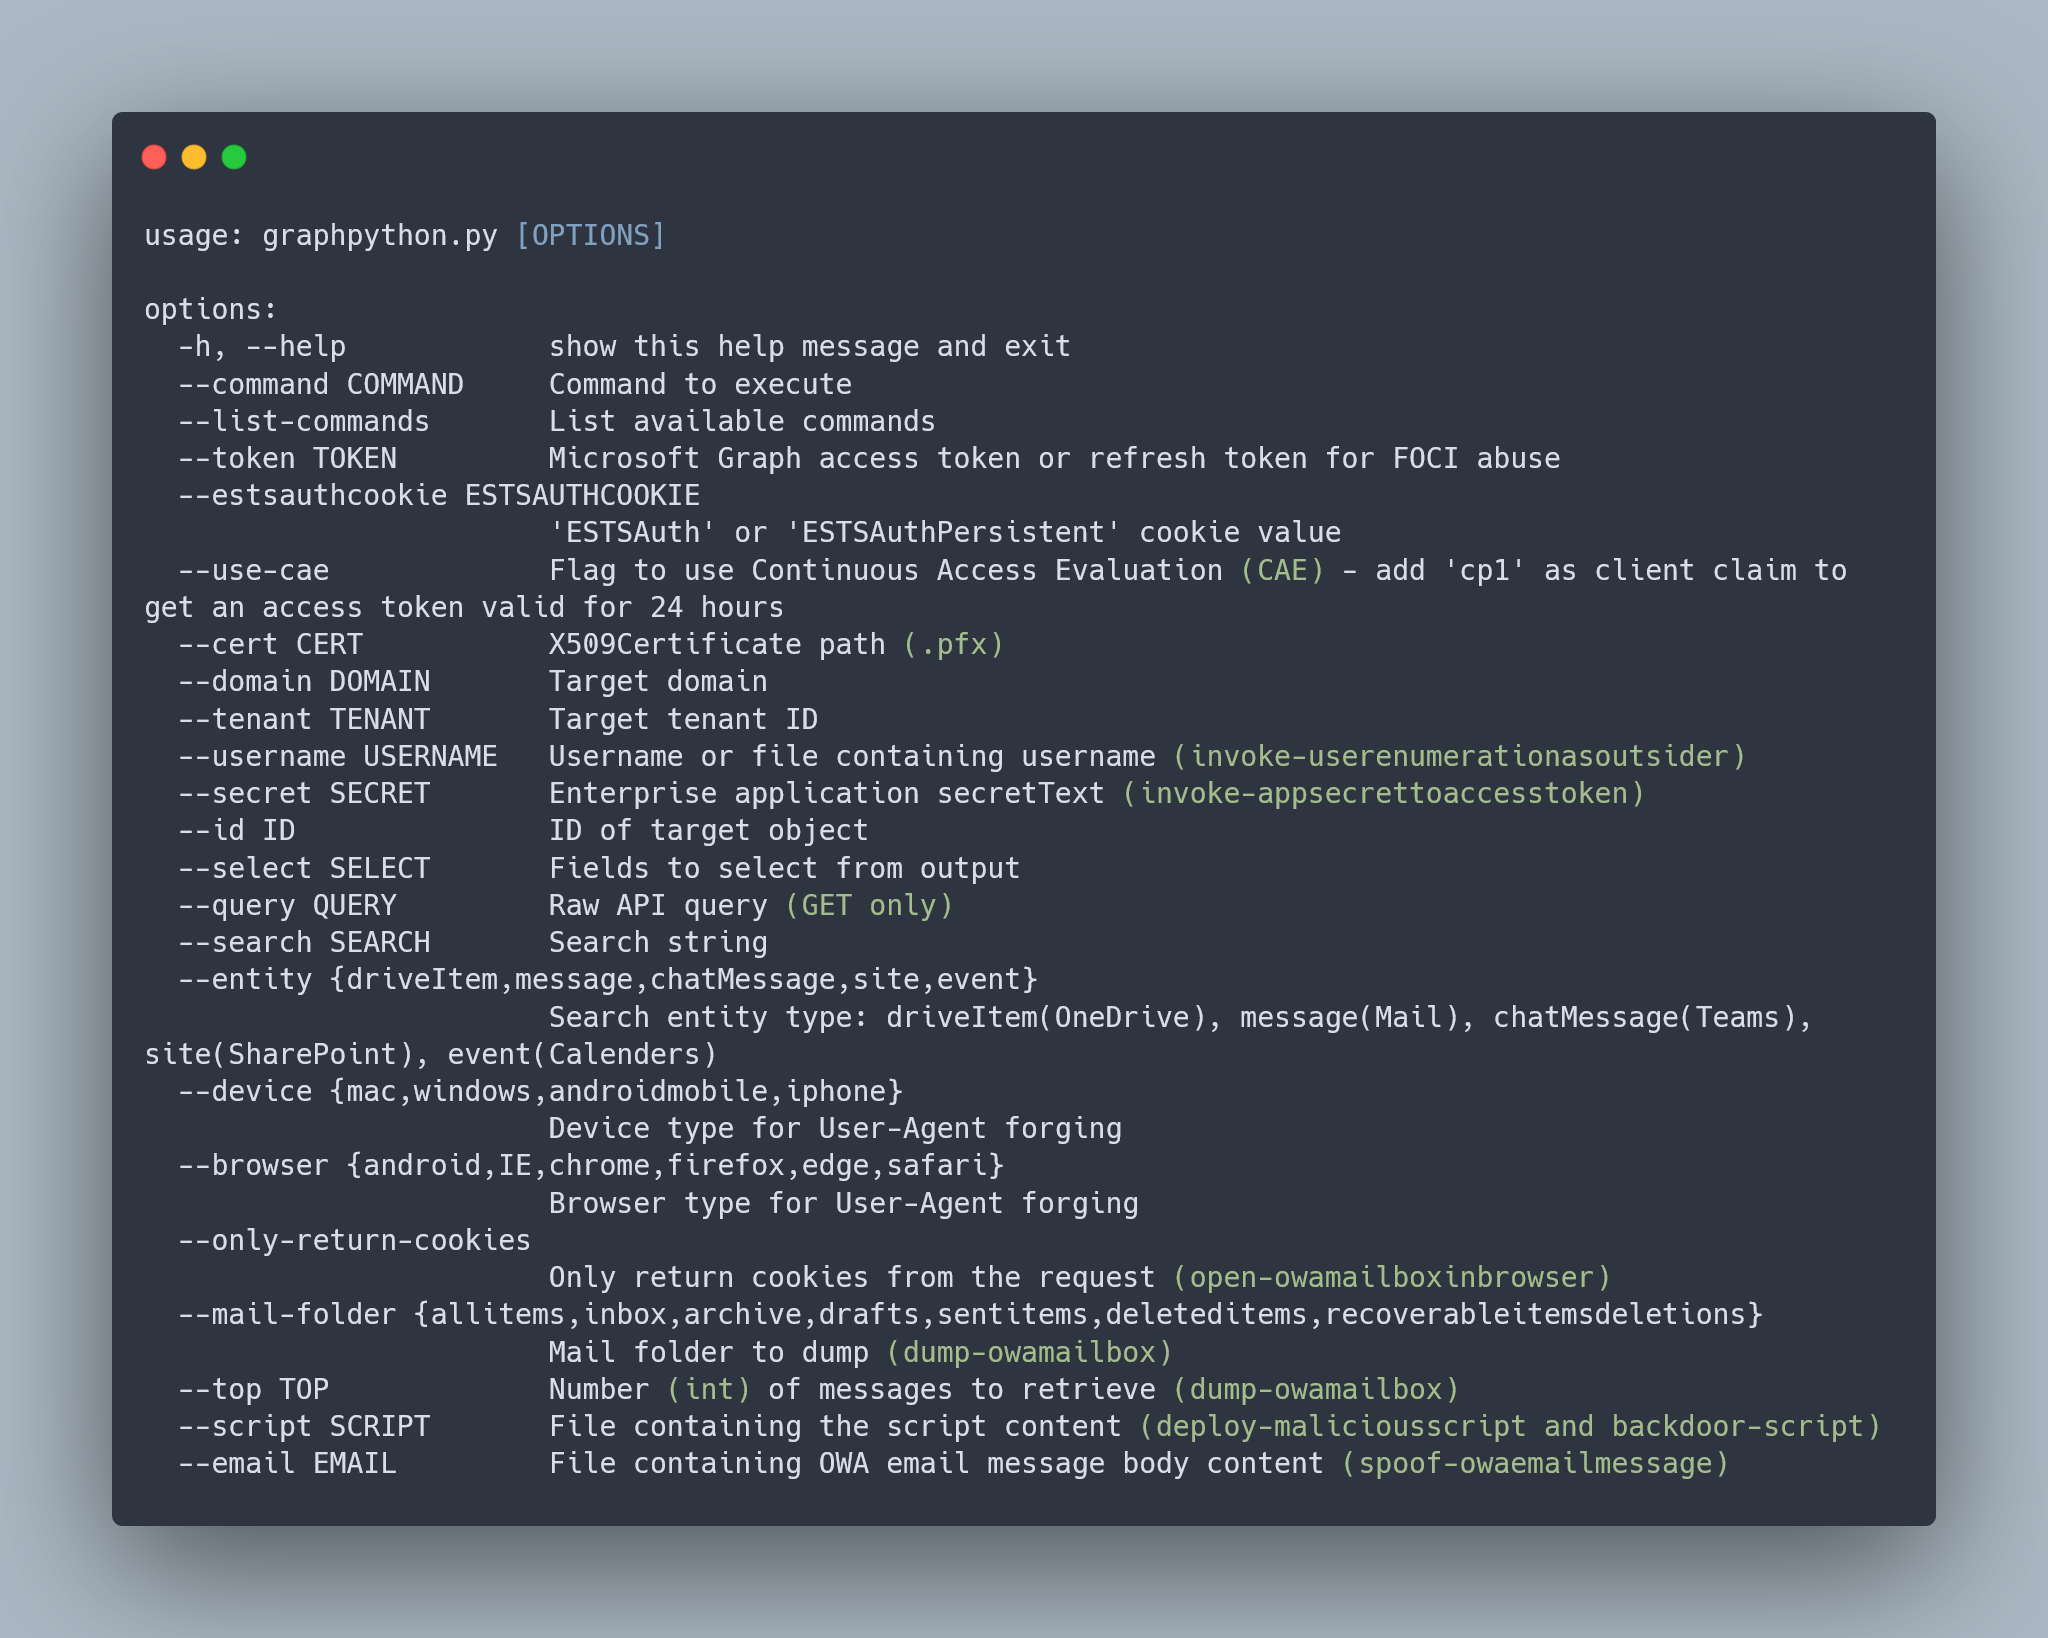
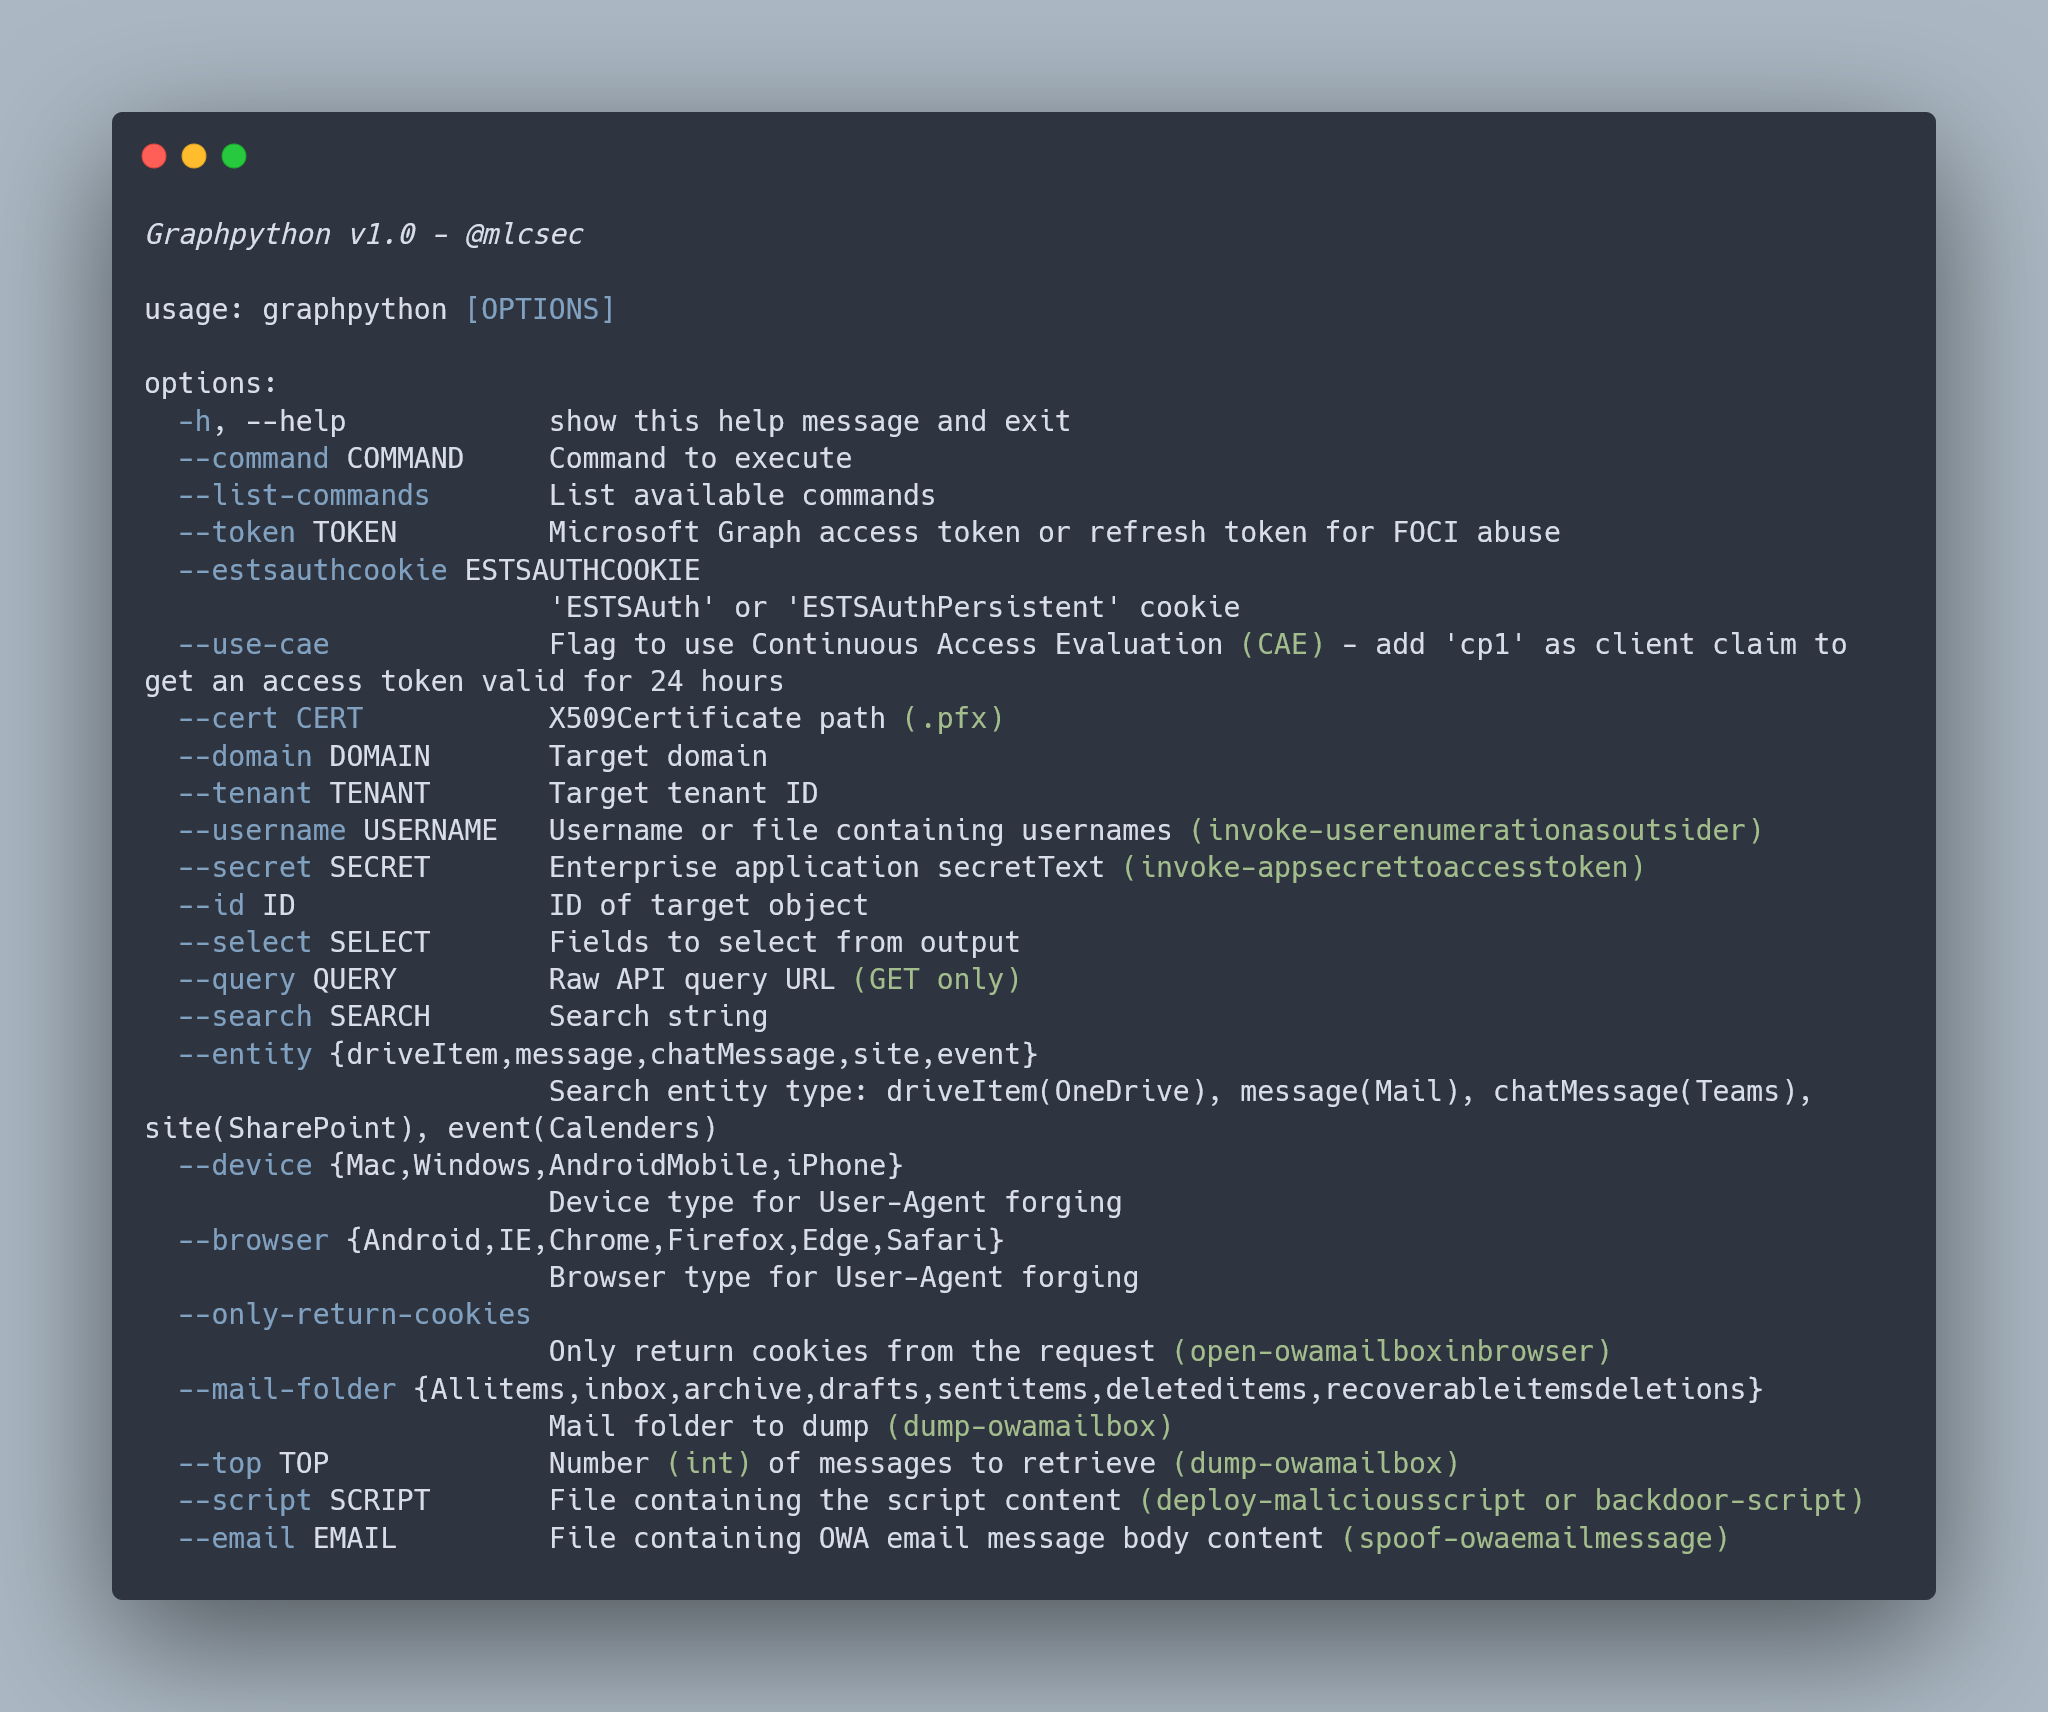
Update

Changed region(s): [[0.0625, 0.0623, 0.9062, 0.9341], [0.0938, 0.8407, 0.1875, 0.9341]]

diff --git a/graphpython/__main__.py b/graphpython/__main__.py
@@ -34,16 +34,16 @@ def parseArgs():
     parser.add_argument("--command", help="Command to execute")
     parser.add_argument("--list-commands", action="store_true", help="List available commands")
     parser.add_argument("--token", help="Microsoft Graph access token or refresh token for FOCI abuse")
-    parser.add_argument("--estsauthcookie", help="'ESTSAuth' or 'ESTSAuthPersistent' cookie value")
+    parser.add_argument("--estsauthcookie", help="'ESTSAuth' or 'ESTSAuthPersistent' cookie")
     parser.add_argument("--use-cae", action="store_true", help="Flag to use Continuous Access Evaluation (CAE) - add 'cp1' as client claim to get an access token valid for 24 hours")
     parser.add_argument("--cert", help="X509Certificate path (.pfx)")
     parser.add_argument("--domain", help="Target domain")
     parser.add_argument("--tenant", help="Target tenant ID")
-    parser.add_argument("--username", help="Username or file containing username (invoke-userenumerationasoutsider)")
+    parser.add_argument("--username", help="Username or file containing usernames (invoke-userenumerationasoutsider)")
     parser.add_argument("--secret", help="Enterprise application secretText (invoke-appsecrettoaccesstoken)")
     parser.add_argument("--id", help="ID of target object")
     parser.add_argument("--select", help="Fields to select from output")
-    parser.add_argument("--query", help="Raw API query (GET only)")
+    parser.add_argument("--query", help="Raw API query URL (GET only)")
     parser.add_argument("--search", help="Search string")
     parser.add_argument("--entity", choices=['driveItem', 'message', 'chatMessage', 'site', 'event'],help="Search entity type: driveItem(OneDrive), message(Mail), chatMessage(Teams), site(SharePoint), event(Calenders)")
     parser.add_argument("--device", choices=['Mac', 'Windows', 'AndroidMobile', 'iPhone'], help="Device type for User-Agent forging")
@@ -51,7 +51,7 @@ def parseArgs():
     parser.add_argument("--only-return-cookies", action="store_true", help="Only return cookies from the request (open-owamailboxinbrowser)")
     parser.add_argument("--mail-folder", choices=['Allitems', 'inbox', 'archive', 'drafts', 'sentitems', 'deleteditems', 'recoverableitemsdeletions'], help="Mail folder to dump (dump-owamailbox)")
     parser.add_argument("--top", type=int, help="Number (int) of messages to retrieve (dump-owamailbox)")
-    parser.add_argument("--script", help="File containing the script content (deploy-maliciousscript and backdoor-script)")
+    parser.add_argument("--script", help="File containing the script content (deploy-maliciousscript or backdoor-script)")
     parser.add_argument("--email", help="File containing OWA email message body content (spoof-owaemailmessage)")
     
     args = parser.parse_args()
